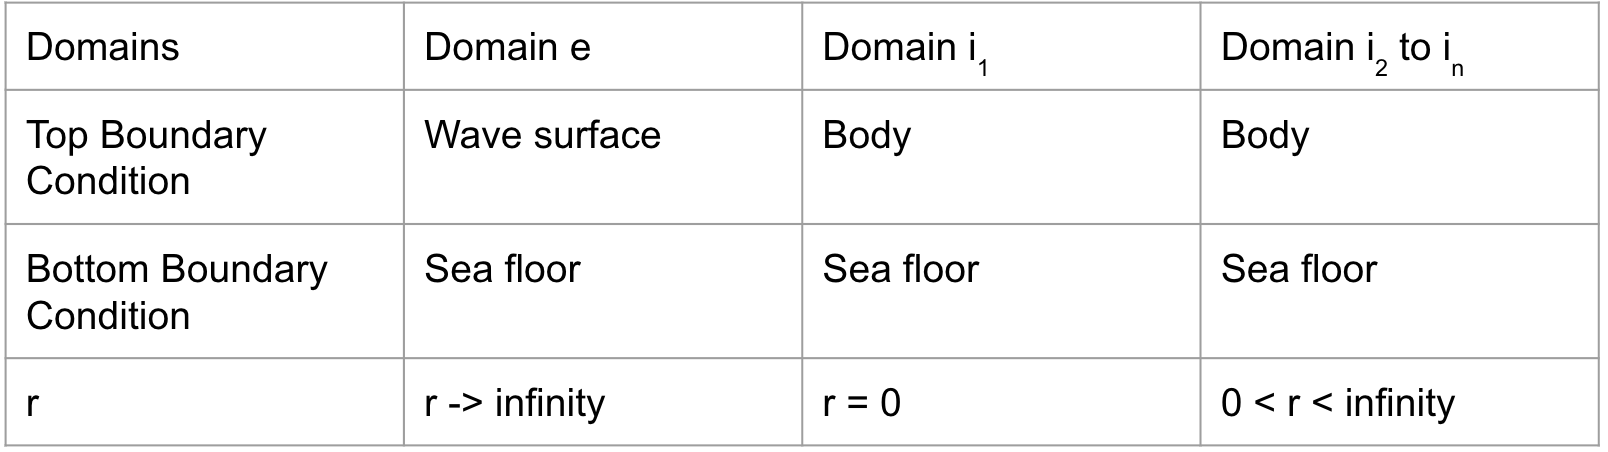
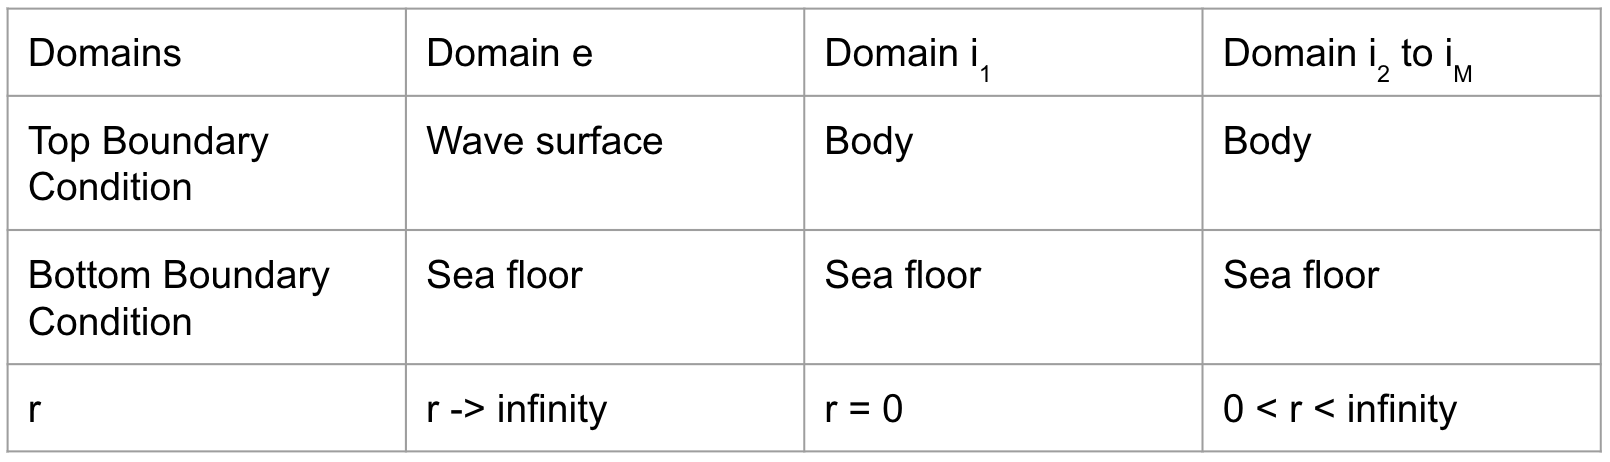
changed subscript
- also n is already used for the index of summation in the innermost region, so  chose a different variable, m, for the index of the number of inner regions.
- Also, the final index in the series is typically capital by convention, so made it capital

diff --git a/package/src/meem_engine.py b/package/src/meem_engine.py
@@ -213,39 +213,6 @@ class MEEMEngine:
             A[row, col] = calc_func(problem, m0, m_k_arr_computed, N_k_arr_computed)
         return A
     
-    def assemble_b(self, problem: MEEMProblem, m0) -> np.ndarray:
-        """
-        Assemble the right-hand side vector b for a given problem.
-
-        :param problem: MEEMProblem instance.
-        :return: Assembled vector b.
-        """
-        inner_domain = problem.domain_list[0]
-        outer_domain = problem.domain_list[1]
-        exterior_domain = problem.domain_list[2]
-
-        N = inner_domain.number_harmonics
-        M = outer_domain.number_harmonics
-        K = exterior_domain.number_harmonics
-
-        size = N + 2 * M + K
-        b = np.zeros(size, dtype=complex)
-
-        h, d1, d2 = inner_domain.h, inner_domain.di, outer_domain.di
-        a1, a2 = inner_domain.a, outer_domain.a
-        
-        # Extract the integral result from the quad output
-        rhs_12 = np.array([integrate.quad(lambda z: phi_p_i1_i2_a1(z, h, a1, d1, d2) * Z_n_i1(n, z, h, d1), -h, -d1)[0] for n in range(N)])
-        rhs_2E = np.array([-integrate.quad(lambda z: phi_p_a2(z, a2, h, d2) * Z_n_i2(m, z, h, d2), -h, -d2)[0] for m in range(M)])
-        rhs_velocity_12 = np.array([integrate.quad(lambda z: diff_phi_i1(a1, d1, h) * Z_n_i2(m, z, h, d2), -h, -d1)[0] - integrate.quad(lambda z: diff_phi_i2(a1, d2, h) * Z_n_i2(m, z, h, d2), -h, -d2)[0] for m in range(M)])
-        rhs_velocity_2E = np.array([integrate.quad(lambda z: diff_phi_i2(a2, d2, h) * Z_n_e(k, z, m0, h), -h, -d2)[0] for k in range(K)])
-
-
-        b = np.concatenate((rhs_12, rhs_2E, rhs_velocity_12, rhs_velocity_2E))
-
-
-        return b
-    
     # Renaming current assemble_b_multi to indicate it's the full assembly
     def _full_assemble_b_multi(self, problem: MEEMProblem, m0) -> np.ndarray:
         """

diff --git a/docs/domain.rst b/docs/domain.rst
@@ -23,7 +23,7 @@ Domain Module
    :align: center
    :width: 100%
 
-   **Figure 2**: The package can model any number of concentric cylindrical domains i₁, ..., iₙ between exterior domains e.
+   **Figure 2**: The package can model any number of concentric cylindrical domains :math:`i_1, \ldots, i_M` between exterior domains :math:`e`.
 
 This module defines the `Domain` class, which represents the characteristics of a physical domain.
 
